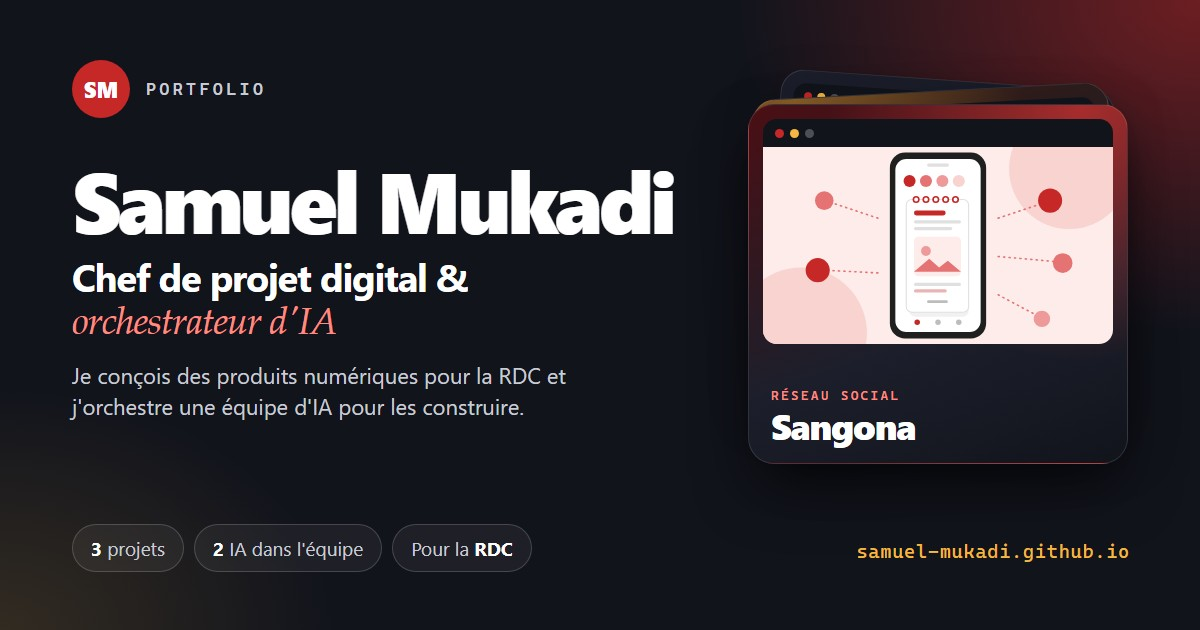
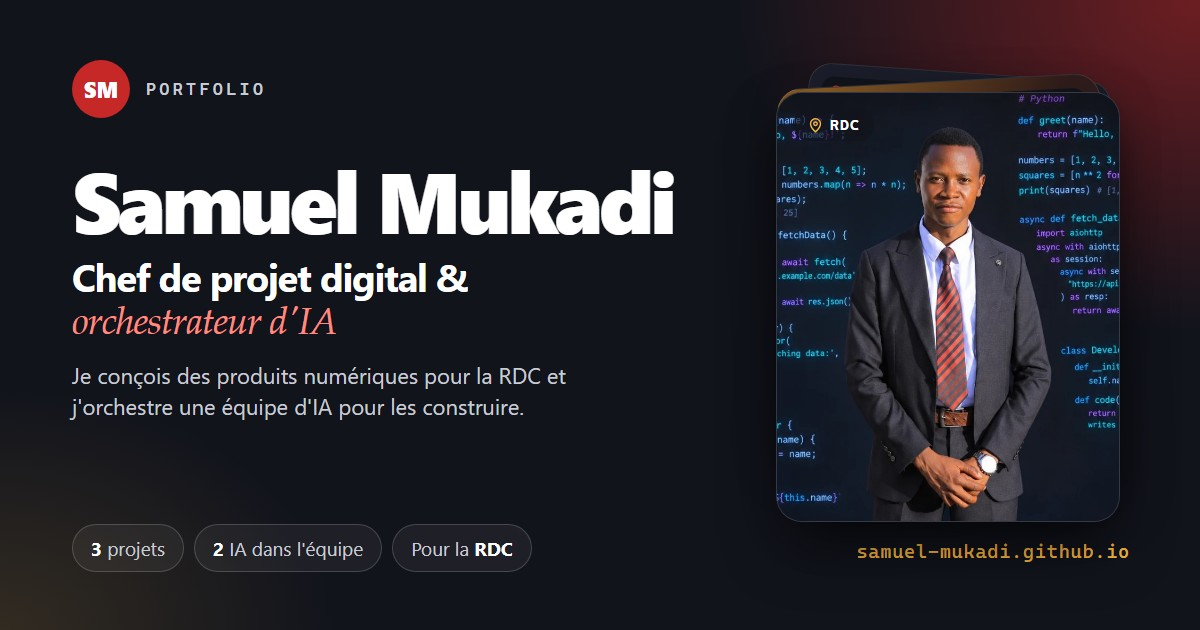
Ajoute ma photo sur le site et dans l'image d'aperçu
- « Qui suis-je ? » : ma photo dans le grand carré (800 × 800, webp + jpg).
- Les petits ronds à côté de mon nom (en-tête, bas de page) : mon visage.
- Image d'aperçu WhatsApp : ma photo en pied, coupée aux mains, posée sur les cartes des projets.
- Nouvel outil outils/preparer-photo.mjs pour recadrer et alléger une photo.

Changed region(s): [[0.6167, 0.0905, 0.9558, 0.9048]]

diff --git a/outils/image-apercu.html b/outils/image-apercu.html
@@ -1,6 +1,8 @@
 <!doctype html>
 <!-- Le dessin de l'image d'aperçu (1200 × 630), celle qui s'affiche quand on partage
      le lien du site sur WhatsApp, Telegram, Facebook…
+     Ma photo : outils/photo-apercu.jpg (640 × 800, de la tête aux mains, faite avec
+     node outils/preparer-photo.mjs <photo> outils/photo-apercu 640 800 x y l h).
      Pour refaire l'image après un changement : node outils/fabriquer-image-apercu.mjs -->
 <html lang="fr">
   <head>
@@ -138,13 +140,13 @@
         letter-spacing: 0.04em;
       }
 
-      /* À droite : le paquet de cartes des projets, comme sur le site */
+      /* À droite : ma photo, posée sur le paquet de cartes des projets (comme sur le site) */
       .paquet {
         position: absolute;
-        top: 104px;
-        right: 72px;
-        width: 380px;
-        height: 360px;
+        top: 92px;
+        right: 80px;
+        width: 344px;
+        height: 430px;
       }
 
       .carte {
@@ -158,11 +160,42 @@
         box-shadow: 0 30px 60px -10px rgba(0, 0, 0, 0.6);
       }
 
+      /* La carte du dessus = ma photo (de la tête aux mains) */
       .c1 {
         z-index: 3;
-        background:
-          radial-gradient(circle at 88% 0%, rgba(229, 57, 53, 0.65) 0, transparent 52%),
-          linear-gradient(160deg, var(--bordeaux) 0%, var(--nuit-2) 60%, var(--nuit) 100%);
+        background: var(--nuit-2);
+      }
+
+      .c1 > img {
+        position: absolute;
+        inset: 0;
+        width: 100%;
+        height: 100%;
+        object-fit: cover;
+        object-position: 50% 0;
+      }
+
+      .lieu {
+        position: absolute;
+        top: 16px;
+        left: 16px;
+        display: inline-flex;
+        align-items: center;
+        gap: 6px;
+        padding: 7px 14px;
+        border-radius: 999px;
+        background: rgba(18, 20, 28, 0.7);
+        color: #fff;
+        font-family: var(--police-mono);
+        font-size: 15px;
+        font-weight: 700;
+        letter-spacing: 0.08em;
+      }
+
+      .lieu svg {
+        width: 17px;
+        height: 17px;
+        color: var(--or);
       }
 
       .c2 {
@@ -216,27 +249,6 @@
         object-fit: cover;
       }
 
-      .bas {
-        margin-top: auto;
-        padding: 0 22px 20px;
-      }
-
-      .type {
-        color: var(--rouge-doux);
-        font-family: var(--police-mono);
-        font-size: 13px;
-        font-weight: 600;
-        letter-spacing: 0.18em;
-        text-transform: uppercase;
-      }
-
-      .nom {
-        margin-top: 4px;
-        font-size: 36px;
-        font-weight: 800;
-        line-height: 1;
-        letter-spacing: -0.03em;
-      }
     </style>
   </head>
   <body>
@@ -264,11 +276,14 @@
         <div class="fenetre"><div class="barre"><i></i><i></i><i></i></div><img src="../public/images/dop-idara.svg" alt="" /></div>
       </div>
       <div class="carte c1">
-        <div class="fenetre"><div class="barre"><i></i><i></i><i></i></div><img src="../public/images/sangona.svg" alt="" /></div>
-        <div class="bas">
-          <p class="type">Réseau social</p>
-          <p class="nom">Sangona</p>
-        </div>
+        <img src="photo-apercu.jpg" alt="" />
+        <span class="lieu">
+          <svg viewBox="0 0 24 24" fill="none" stroke="currentColor" stroke-width="2" stroke-linecap="round" stroke-linejoin="round" aria-hidden="true">
+            <path d="M12 21s-7-6.2-7-11.5a7 7 0 0 1 14 0C19 14.8 12 21 12 21Z" />
+            <circle cx="12" cy="9.5" r="2.5" />
+          </svg>
+          RDC
+        </span>
       </div>
     </div>
 
